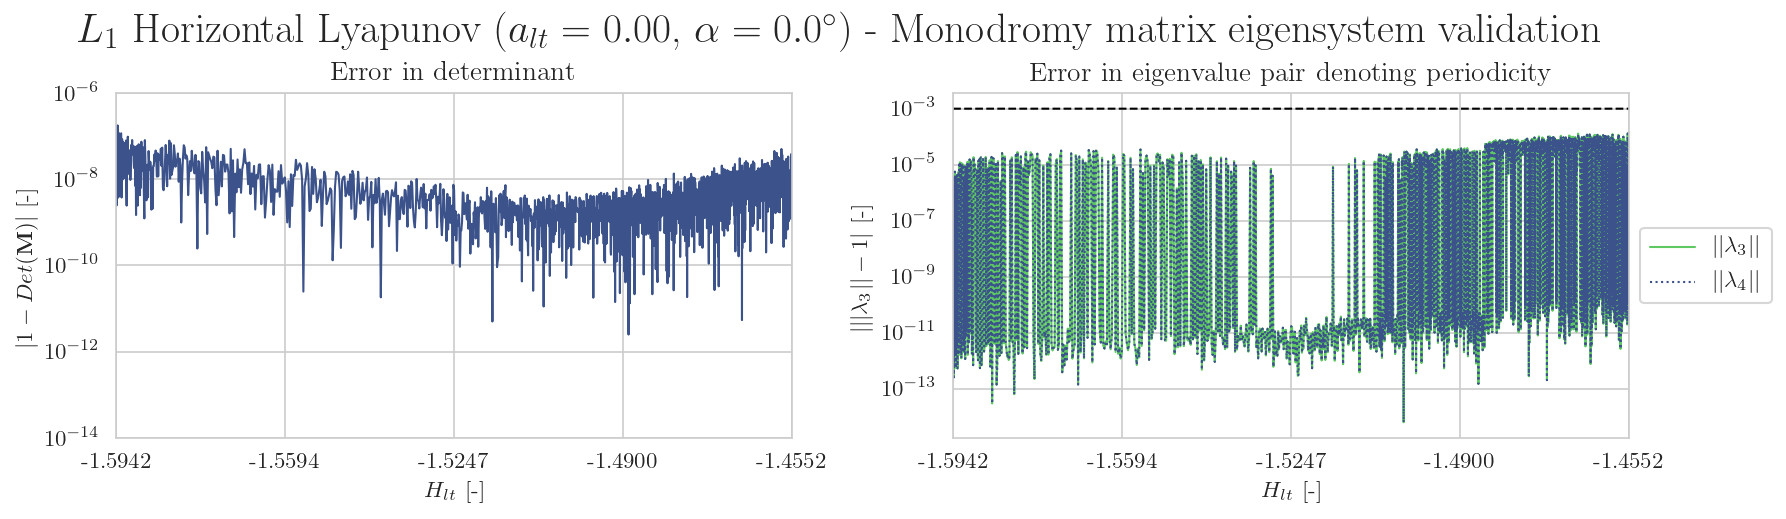
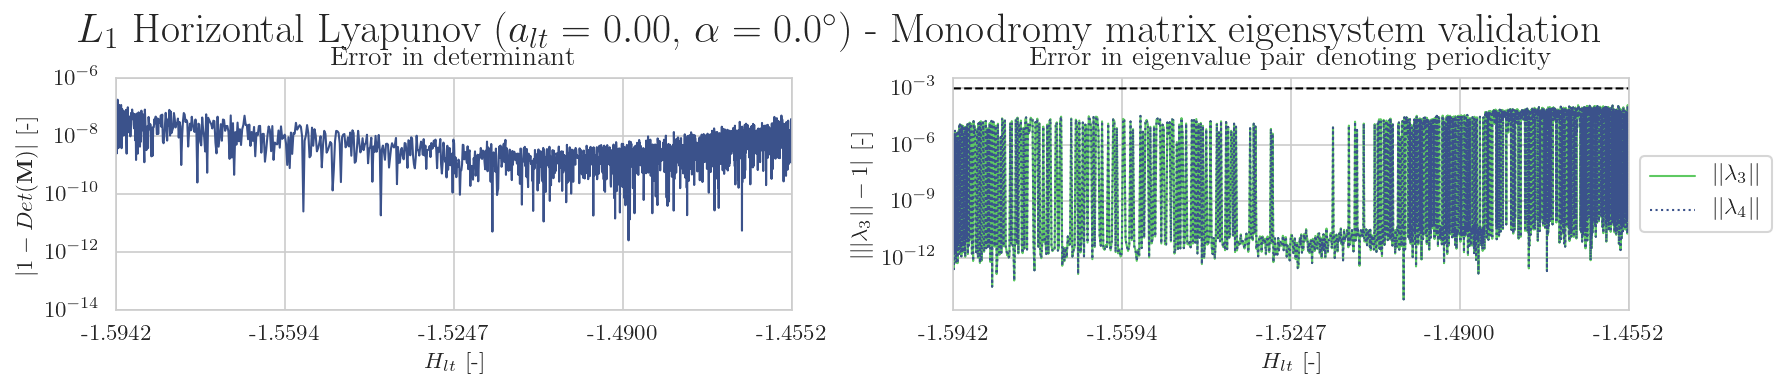
plots adaption

diff --git a/python/phase_7/orbit_verification_and_validation.py b/python/phase_7/orbit_verification_and_validation.py
@@ -469,6 +469,9 @@ class DisplayPeriodicSolutions:
 
         self.figSizeThird = (7 * (1 + np.sqrt(5)) / 2, 3.5*0.75)
 
+        self.figSizeCont = (7 * (1 + np.sqrt(5)) / 2, 7.0*2/3)
+
+
 
         # Colour schemes
         n_colors = 3
@@ -1038,7 +1041,7 @@ class DisplayPeriodicSolutions:
         pass
 
     def plot_continuation_procedure(self):
-        f, arr = plt.subplots(2, 2, figsize=self.figSize)
+        f, arr = plt.subplots(2, 2, figsize=self.figSizeCont)
         size = 7
 
         xlim = [1,len(self.orbitsId)]
@@ -1335,9 +1338,9 @@ if __name__ == '__main__':
 
                             #display_periodic_solutions.plot_families()
                             #display_periodic_solutions.plot_periodicity_validation()
-                            display_periodic_solutions.plot_monodromy_analysis()
+                            #display_periodic_solutions.plot_monodromy_analysis()
                             #display_periodic_solutions.plot_stability()
-                            #display_periodic_solutions.plot_continuation_procedure()
+                            display_periodic_solutions.plot_continuation_procedure()
                             # display_periodic_solutions.plot_increment_of_orbits()
 
 
